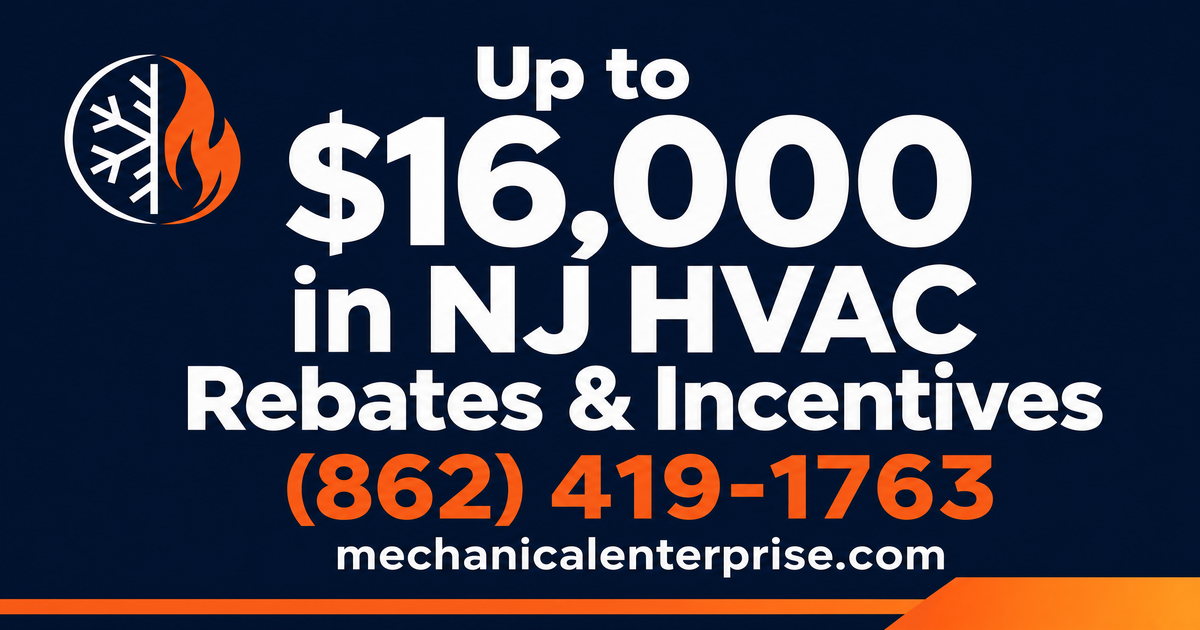
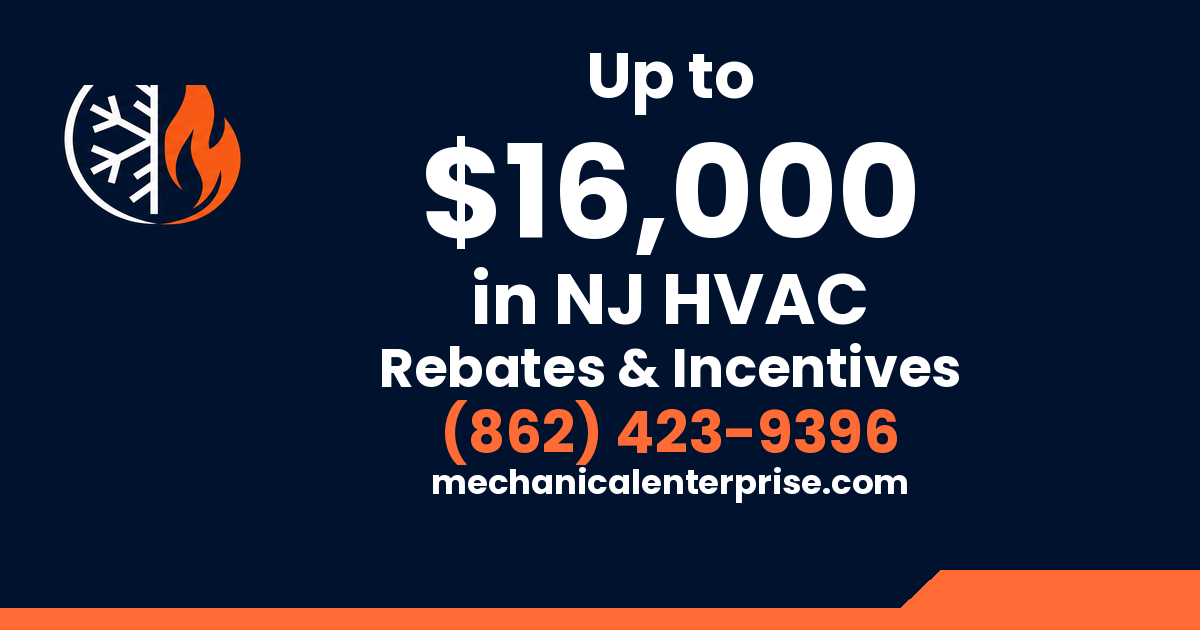
meta: NJ-only website traffic campaign builder; fix share image phone number (#495)
Owner (Oct 31): move $5/day from Google to a Facebook homeowner campaign.
- createNjTrafficCampaign: OUTCOME_TRAFFIC, New Jersey region (key looked up
  live), ages 30-65, link clicks (site has no Meta pixel), to a
  mechanicalenterprise.com landing page; created PAUSED. setCampaignStatus to
  enable after review. Both admin-only and logged.
- og-default.png (the site's social share image) showed the old number
  (862) 419-1763; regenerated with (862) 423-9396.
- fb-ad-nj-homeowners.png: ad image with only the verified 'up to $16,000'.

Claude-Session: https://claude.ai/code/session_016GqQithrpvhb9HPwMibS5p

Changed region(s): [[0.0, 0.0603, 1.0, 1.0], [0.0617, 0.0905, 0.185, 0.1508]]

diff --git a/server/metaAds.ts b/server/metaAds.ts
@@ -377,3 +377,91 @@ export async function boostPost(_params: BoostPostParams): Promise<{ externalCam
       "SOCIAL_BOOST_ENABLED should stay false, or boost calls should go through the mock platform client, until this is built against a live ad account.",
   );
 }
+
+/* ── New Jersey website-traffic campaign (owner, Oct 31, 2026) ───────────────────────────────
+ * The instant-form builder above stays disabled (US-wide targeting, CRM delivery unverified). This one
+ * sends people to a mechanicalenterprise.com landing page, so leads arrive through the site's own lead
+ * form (TCPA + CRM capture already verified). Targeting is the New Jersey region only. Optimizes for
+ * link clicks because the site has no Meta pixel configured (VITE_META_PIXEL_ID unset).
+ * Created PAUSED; the caller enables it after review. */
+export interface NjTrafficCampaignParams {
+  adAccountId: string;
+  pageId: string;
+  name: string;
+  dailyBudgetCents: number;
+  landingUrl: string;
+  imageUrl: string;
+  primaryText: string;
+  headline: string;
+  description: string;
+  ageMin?: number;
+  ageMax?: number;
+}
+
+/** Meta's region key for New Jersey, looked up live rather than hard-coded. */
+export async function findNewJerseyRegionKey(token: string): Promise<string> {
+  const json = await metaGet("/search", token, { type: "adgeolocation", location_types: JSON.stringify(["region"]), q: "New Jersey", country_code: "US" });
+  const hit = (json.data ?? []).find((d: { name?: string; country_code?: string; type?: string }) => d.name === "New Jersey" && d.country_code === "US" && d.type === "region");
+  if (!hit?.key) throw new Error("Could not find Meta's region key for New Jersey.");
+  return String(hit.key);
+}
+
+export async function createNjTrafficCampaign(token: string, p: NjTrafficCampaignParams) {
+  const landing = new URL(p.landingUrl);
+  if (landing.protocol !== "https:" || !/(^|\.)mechanicalenterprise\.com$/.test(landing.hostname)) throw new Error("Landing URL must be https://mechanicalenterprise.com/…");
+  if (p.dailyBudgetCents < 100 || p.dailyBudgetCents > 5000) throw new Error("Daily budget must be $1-$50.");
+  const actId = `act_${p.adAccountId}`;
+  const region = await findNewJerseyRegionKey(token);
+
+  const campaign = await metaPost(`/${actId}/campaigns`, token, {
+    name: p.name,
+    objective: "OUTCOME_TRAFFIC",
+    status: "PAUSED",
+    special_ad_categories: [],
+    is_adset_budget_sharing_enabled: false,
+  });
+  const adSet = await metaPost(`/${actId}/adsets`, token, {
+    name: `${p.name} — NJ ${p.ageMin ?? 30}-${p.ageMax ?? 65}`,
+    campaign_id: campaign.id,
+    daily_budget: String(p.dailyBudgetCents),
+    billing_event: "IMPRESSIONS",
+    optimization_goal: "LINK_CLICKS",
+    bid_strategy: "LOWEST_COST_WITHOUT_CAP",
+    destination_type: "WEBSITE",
+    targeting: {
+      geo_locations: { regions: [{ key: region }], location_types: ["home"] },
+      age_min: p.ageMin ?? 30,
+      age_max: p.ageMax ?? 65,
+      targeting_automation: { advantage_audience: 0 },
+    },
+    status: "ACTIVE",
+  });
+  const creative = await metaPost(`/${actId}/adcreatives`, token, {
+    name: `${p.name} — Creative`,
+    object_story_spec: {
+      page_id: p.pageId,
+      link_data: {
+        link: p.landingUrl,
+        message: p.primaryText,
+        name: p.headline,
+        description: p.description,
+        picture: p.imageUrl,
+        call_to_action: { type: "LEARN_MORE", value: { link: p.landingUrl } },
+      },
+    },
+  });
+  const ad = await metaPost(`/${actId}/ads`, token, {
+    name: `${p.name} — Ad`,
+    adset_id: adSet.id,
+    creative: { creative_id: creative.id },
+    status: "ACTIVE",
+  });
+  return { campaignId: String(campaign.id), adSetId: String(adSet.id), creativeId: String(creative.id), adId: String(ad.id), regionKey: region, status: "PAUSED" as const };
+}
+
+/** Enable or pause a campaign by id. */
+export async function setMetaCampaignStatus(token: string, campaignId: string, status: "ACTIVE" | "PAUSED") {
+  await metaPost(`/${campaignId}`, token, { status });
+  const now = await metaGet(`/${campaignId}`, token, { fields: "name,status,effective_status" });
+  return { campaignId, name: now.name, status: now.status, effectiveStatus: now.effective_status };
+}

diff --git a/server/routers/metaAds.ts b/server/routers/metaAds.ts
@@ -9,6 +9,8 @@ import {
   getCampaignPerformance,
   createLeadCampaign,
   testAdAccount,
+  createNjTrafficCampaign,
+  setMetaCampaignStatus,
 } from "../metaAds";
 import { saveAiVaCredentials, getAiVaCredentials, getAiVaCredentialTimestamp } from "../db";
 import { ENV } from "../_core/env";
@@ -149,6 +151,42 @@ export const metaAdsRouter = router({
     const campaigns = await getCampaignPerformance(token, adAccountId);
     return { campaigns };
   }),
+
+  /** NJ-only website-traffic campaign to a mechanicalenterprise.com landing page (created PAUSED). Admin-only. */
+  createNjTrafficCampaign: adminProcedure
+    .input(z.object({
+      name: z.string().min(3).max(120),
+      dailyBudget: z.number().min(1).max(50),
+      landingUrl: z.string().url(),
+      imageUrl: z.string().url(),
+      primaryText: z.string().min(10).max(600),
+      headline: z.string().min(3).max(60),
+      description: z.string().max(120).default(""),
+    }))
+    .mutation(async ({ input, ctx }) => {
+      const token = await getToken();
+      const adAccountId = await getAdAccountId();
+      const pageId = await getPageId();
+      if (!token || !adAccountId || !pageId) throw new Error("Meta Ads not fully configured.");
+      try {
+        const r = await createNjTrafficCampaign(token, { ...input, dailyBudgetCents: Math.round(input.dailyBudget * 100), adAccountId, pageId });
+        console.log("[Meta Ads] nj_traffic_campaign_created", JSON.stringify({ actor: (ctx.user as { email?: string } | null)?.email ?? null, name: input.name, dailyBudget: input.dailyBudget, ...r }));
+        return r;
+      } catch (err) {
+        console.error("[Meta Ads] nj_traffic_campaign_failed", (err as Error).message.slice(0, 1000));
+        throw err;
+      }
+    }),
+
+  setCampaignStatus: adminProcedure
+    .input(z.object({ campaignId: z.string().regex(/^\d+$/), status: z.enum(["ACTIVE", "PAUSED"]) }))
+    .mutation(async ({ input, ctx }) => {
+      const token = await getToken();
+      if (!token) throw new Error("Meta Ads not connected.");
+      const r = await setMetaCampaignStatus(token, input.campaignId, input.status);
+      console.log("[Meta Ads] campaign_status_changed", JSON.stringify({ actor: (ctx.user as { email?: string } | null)?.email ?? null, ...r }));
+      return r;
+    }),
 
   // Create a lead generation campaign (OUTCOME_LEADS with Instant Form)
   createCampaign: adminProcedure
